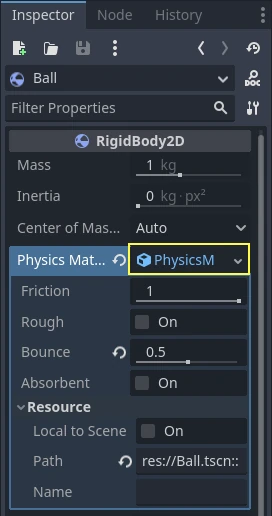
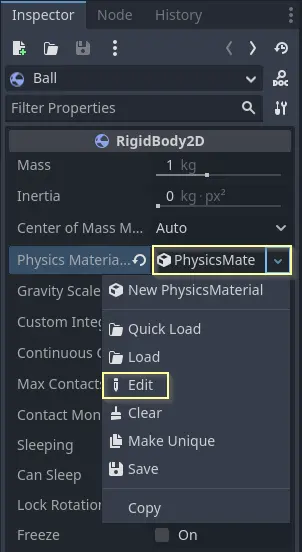
Updated text and screenshot for editing bounce property

diff --git a/getting_started/step_by_step/instancing.rst b/getting_started/step_by_step/instancing.rst
@@ -119,12 +119,13 @@ There is more to instances. With this feature, you can:
           corresponding packed scene.
 
 Let's try this. Open ``ball.tscn`` and select the Ball node. In the Inspector on
-the right, click on the PhysicsMaterial property to expand it.
+the right, click on the PhysicsMaterial property and select Edit from the menu.
 
 .. image:: img/instancing_physics_material_expand.webp
 
-Set its Bounce property to ``0.5`` by clicking on the number field, typing ``0.5``,
-and pressing :kbd:`Enter`.
+The inspector will change to show properties for the PhysicsMaterial. Set its
+Bounce property to ``0.5`` by clicking on the number field, typing ``0.5``, and
+pressing :kbd:`Enter`.
 
 .. image:: img/instancing_property_bounce_updated.webp
 
